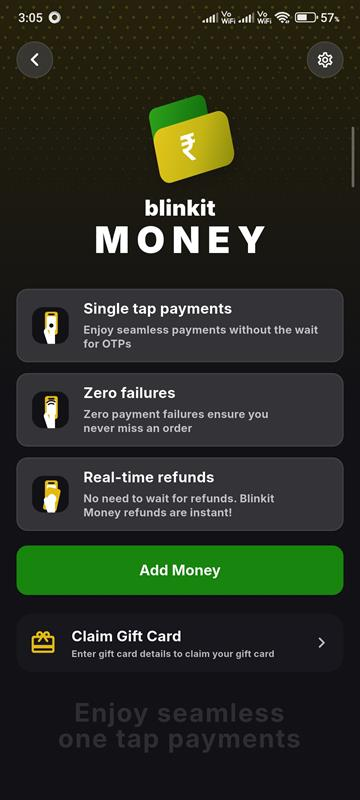
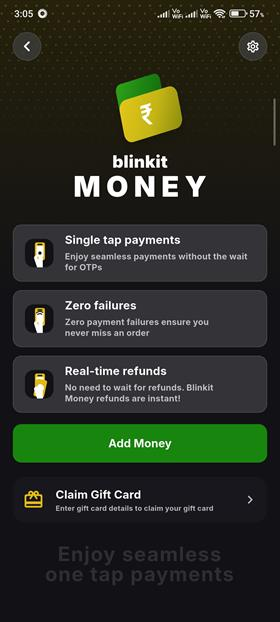
Reduce README screenshot preview size

diff --git a/README.md b/README.md
@@ -8,7 +8,7 @@ Flutter UI/UX animation assignment for Flick TV.
 
 ## Preview
 
-<img src="media/flicktv-sumit-preview.jpg" alt="FlickTV Sumit screenshot" width="360" />
+<img src="media/flicktv-sumit-preview.jpg" alt="FlickTV Sumit screenshot" width="280" />
 
 [Open full-size screenshot](media/flicktv-sumit.jpg)
 
